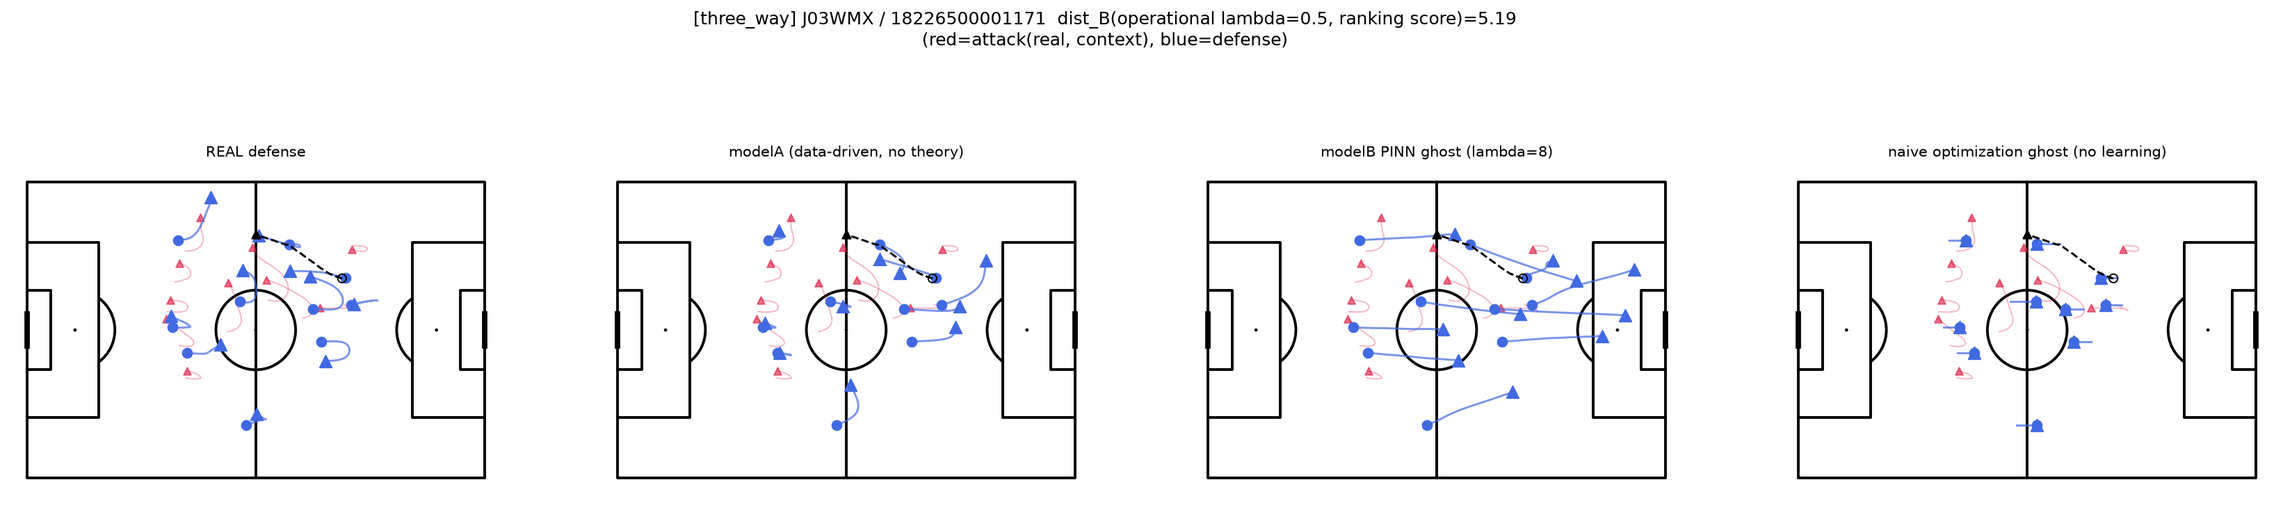
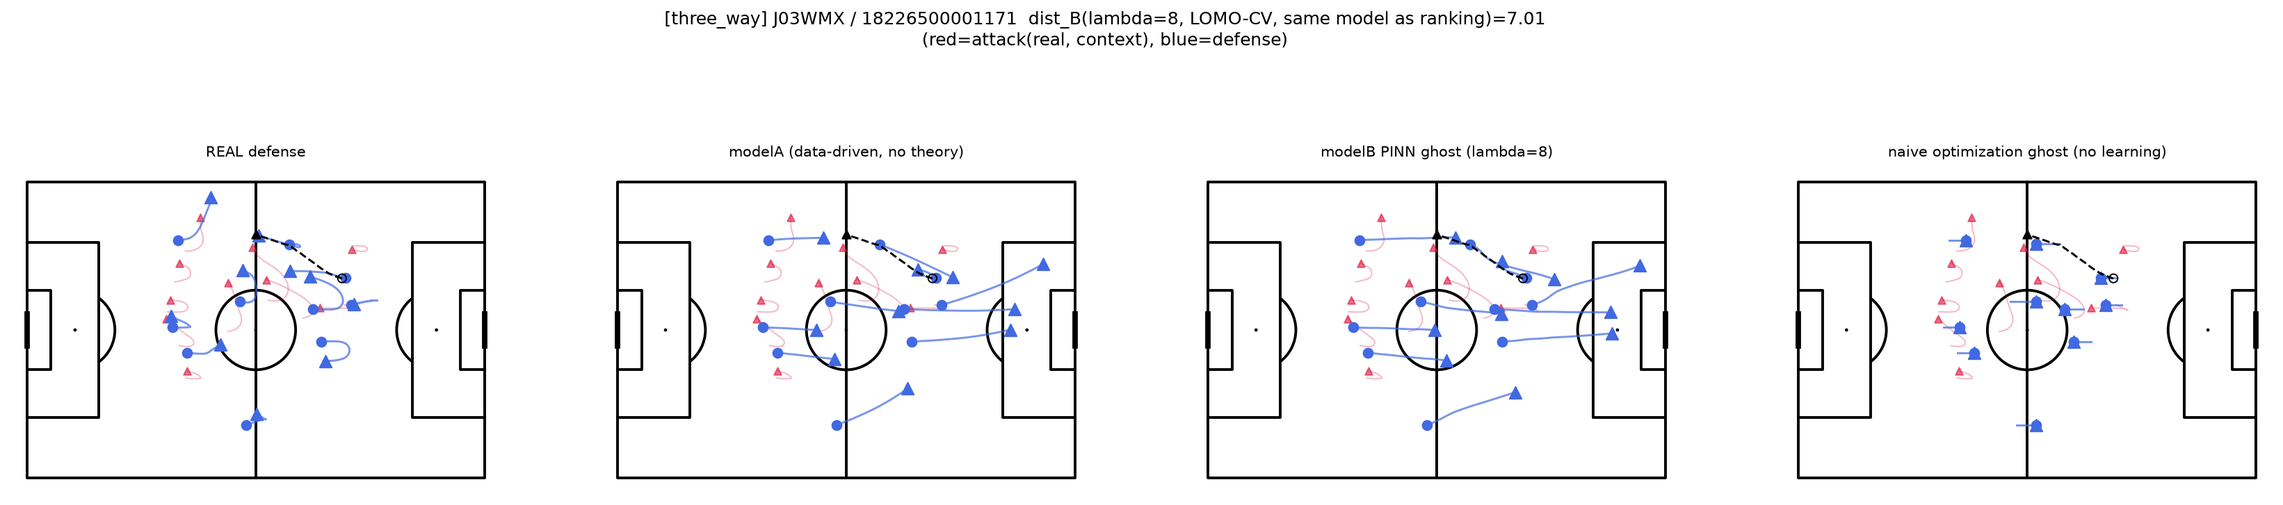
3者比較のランキング/可視化モデル不一致を修正: λ=8・LOMO-CVに統一
指導現場向け可視化の試作過程で、事例選定に使うdist_Bランキング(λ=0.5・
LOMO-CVアンサンブル)と実際にmodelBパネルに描画していたモデル(λ=8・
in-sample学習、全502件)が別物だった不整合を発見。両者を同一のλ=8・
LOMO-CV(該当試合をホールドアウト)モデルに統一して再実施した。

修正後は4事例中2件でPINN/modelAの視覚的な差が明確になったが、残り2件は
依然として差が小さく、AUC=0.610という効果量の弱さと整合する結果になった。
ナイーブ最適化の「静止」失敗モードと、それに対するPINN/modelAの優位性
という主目的の結論は変わらず成立している。

diff --git a/scripts/three_way_comparison.py b/scripts/three_way_comparison.py
@@ -10,8 +10,15 @@
 ランキングに使う運用上のλ（0.5）とは役割が異なるため、意図的に強めのλ=8を使う
 （11.5節）。
 
-代表シーンの選定は、dist_B単体ランキング（11.9節項目1で採用）の上位から、
-試合の多様性を確保して3件選ぶ。
+【修正履歴】初期版は、①事例選定に使うdist_Bランキング（λ=0.5・LOMO-CVアンサンブル、
+excess_deviation_aggregated.pkl由来）と、②実際にmodelBパネルに描画するモデル
+（このスクリプト内で全502件をin-sample学習したλ=8・単一seed）が別物になっており、
+「ランキング上位として選んだのに、可視化している乖離とランキングの根拠が一致しない」
+という不整合があった（`coaching_overlay_prototype_report.md`で発見）。本版では、
+①②とも同一のλ=8・LOMO-CV（該当試合をホールドアウト）モデルで統一する。
+
+事例選定は、この統一したλ=8・LOMO-CVのdist_Bランキングの上位から、試合の多様性を
+確保して3件選ぶ。
 
 実行: uv run python scripts/three_way_comparison.py
 """
@@ -38,7 +45,6 @@ from hs_pinn.model import TrajectoryBackbone
 from hs_pinn.soft_constraints import compactness_loss, compute_target_compactness
 
 CACHE_PATH = Path(__file__).resolve().parent.parent / "data" / "processed" / "counter_trajectories.pkl"
-AGG_PATH = Path(__file__).resolve().parent.parent / "data" / "processed" / "excess_deviation_aggregated.pkl"
 OUT_DIR = Path(__file__).resolve().parent.parent / "documents" / "three_way_comparison_images"
 PITCH_LENGTH, PITCH_WIDTH = 105.0, 68.0
 PITCH_BOUNDS = PitchBounds(0.0, PITCH_LENGTH, 0.0, PITCH_WIDTH)
@@ -47,6 +53,7 @@ EPOCHS = 30
 BATCH_SIZE = 16
 NAIVE_STEPS = 300
 N_EVENTS = 3
+ALL_MATCHES = ["J03WPY", "J03WMX", "J03WN1", "J03WOH", "J03WOY", "J03WQQ", "J03WR9"]
 
 
 def train_model(loader, lam: float, target_std: float, seed: int = 0) -> TrajectoryBackbone:
@@ -78,7 +85,7 @@ def naive_optimization_ghost(init_pos: torch.Tensor, mask: torch.Tensor, target_
 
     データ項（実軌道への忠実さ）もハード制約（速度・加速度上限）も一切課さない。
     init_pos: (n_defend, 2)。最終観測フレームの実位置を初期値として複製する。
-    戻り値: (T_target, n_defend, 2)
+    戻り値: (n_defend, T_target, 2)
     """
     n_defend = init_pos.shape[0]
     pos = init_pos.unsqueeze(0).repeat(TARGET_FRAMES, 1, 1).clone().unsqueeze(0)  # (1, T, n, 2)
@@ -91,7 +98,7 @@ def naive_optimization_ghost(init_pos: torch.Tensor, mask: torch.Tensor, target_
         optimizer.zero_grad()
         loss.backward()
         optimizer.step()
-    return pos[0].permute(1, 0, 2).detach().numpy()  # (T, n, 2)
+    return pos[0].detach().numpy()  # (n, T, 2)
 
 
 def plot_comparison(tag: str, match_id: str, event_id: str, real_defend, pred_a, pred_b_strong, pred_naive,
@@ -115,10 +122,10 @@ def plot_comparison(tag: str, match_id: str, event_id: str, real_defend, pred_a,
             ax.plot(xs, ys, color="crimson", alpha=0.3, linewidth=1.0, zorder=1)
             ax.scatter(xs[-1], ys[-1], color="crimson", s=30, zorder=2, marker="^", alpha=0.6)
 
-        for i in range(defend_traj.shape[1]):
+        for i in range(defend_traj.shape[0]):
             if not defend_mask[i]:
                 continue
-            xs, ys = defend_traj[:, i, 0], defend_traj[:, i, 1]
+            xs, ys = defend_traj[i, :, 0], defend_traj[i, :, 1]
             ax.plot(xs, ys, color="royalblue", alpha=0.7, linewidth=1.5, zorder=3)
             ax.scatter(xs[0], ys[0], color="royalblue", s=50, zorder=4, marker="o")
             ax.scatter(xs[-1], ys[-1], color="royalblue", s=80, zorder=4, marker="^")
@@ -129,7 +136,7 @@ def plot_comparison(tag: str, match_id: str, event_id: str, real_defend, pred_a,
         ax.set_title(title, fontsize=11)
 
     fig.suptitle(
-        f"[{tag}] {match_id} / {event_id}  dist_B(operational lambda=0.5, ranking score)={dist_b:.2f}\n"
+        f"[{tag}] {match_id} / {event_id}  dist_B(lambda={LAMBDA_STRONG:.0f}, LOMO-CV, same model as ranking)={dist_b:.2f}\n"
         f"(red=attack(real, context), blue=defense)",
         fontsize=13,
     )
@@ -143,11 +150,60 @@ def plot_comparison(tag: str, match_id: str, event_id: str, real_defend, pred_a,
 
 def main() -> None:
     with open(CACHE_PATH, "rb") as f:
-        trajs = pickle.load(f)
-    with open(AGG_PATH, "rb") as f:
-        records = pickle.load(f)
+        all_trajs = pickle.load(f)
+    traj_by_key = {(t.match_id, t.event_id): t for t in all_trajs}
 
-    # dist_B単体ランキング上位から、試合の多様性を確保してN_EVENTS件選ぶ
+    # ランキングと可視化を同一モデル(λ=8・LOMO-CV)で統一するため、全7試合分を
+    # ホールドアウト方式で学習・予測し、real/modelA/modelB(λ=8)の軌道と
+    # dist_Bをすべて先にキャッシュしてから事例選定する。
+    cache: dict[tuple[str, str], dict] = {}
+    labels_by_key: dict[tuple[str, str], int] = {}
+
+    for holdout_match in ALL_MATCHES:
+        train_trajs = [t for t in all_trajs if t.match_id != holdout_match]
+        holdout_trajs = [t for t in all_trajs if t.match_id == holdout_match]
+
+        train_ds = CounterAttackDataset(train_trajs)
+        holdout_ds = CounterAttackDataset(holdout_trajs)
+        train_loader = DataLoader(train_ds, batch_size=BATCH_SIZE, shuffle=True, collate_fn=collate_samples)
+        holdout_loader = DataLoader(holdout_ds, batch_size=1, shuffle=False, collate_fn=collate_samples)
+
+        target_std = compute_target_compactness(train_trajs, INPUT_FRAMES, side="defend")
+        print(f"[holdout={holdout_match}] target_std={target_std:.2f}  training modelA(lambda=0)...")
+        model_a = train_model(train_loader, lam=0.0, target_std=target_std)
+        print(f"[holdout={holdout_match}] training modelB(lambda={LAMBDA_STRONG})...")
+        model_b = train_model(train_loader, lam=LAMBDA_STRONG, target_std=target_std)
+
+        for batch in holdout_loader:
+            key = (batch["match_id"][0], batch["event_id"][0])
+            with torch.no_grad():
+                pos_a, _, _ = model_a(batch)
+                pos_b, _, _ = model_b(batch)
+            defend_mask = batch["defend_mask"][0].numpy()
+            real_defend = batch["target_defend_pos"].permute(0, 2, 1, 3)[0].numpy()  # (n_defend, T, 2)
+            pred_a = pos_a[0].numpy()
+            pred_b = pos_b[0].numpy()
+            diff_b = np.linalg.norm(pred_b - real_defend, axis=-1)
+            dist_b = float(diff_b[defend_mask].mean())
+
+            cache[key] = {
+                "real_defend": real_defend,
+                "pred_a": pred_a,
+                "pred_b": pred_b,
+                "defend_mask": defend_mask,
+                "attack_real": batch["target_attack_pos"][0].numpy(),
+                "init_defend_position": batch["init_defend_position"][0],
+                "dist_b": dist_b,
+                "target_std": target_std,
+            }
+            labels_by_key[key] = int(batch["label"][0])
+
+    records = [
+        {"match_id": k[0], "event_id": k[1], "dist_B": v["dist_b"], "label": labels_by_key[k]}
+        for k, v in cache.items()
+    ]
+
+    # dist_Bランキング上位から、試合の多様性を確保してN_EVENTS件選ぶ
     records_sorted = sorted(records, key=lambda r: -r["dist_B"])
     selected, seen_matches = [], set()
     for r in records_sorted:
@@ -167,45 +223,15 @@ def main() -> None:
     for r in selected:
         print(f"selected: {r['match_id']} / {r['event_id']}  dist_B={r['dist_B']:.3f}  label={r['label']}")
 
-    ds = CounterAttackDataset(trajs)
-    loader = DataLoader(ds, batch_size=BATCH_SIZE, shuffle=True, collate_fn=collate_samples)
-    target_std = compute_target_compactness(trajs, INPUT_FRAMES, side="defend")
-    print(f"target_std (defend, longitudinal): {target_std:.2f}")
-
-    print("training modelA (lambda=0)...")
-    model_a = train_model(loader, lam=0.0, target_std=target_std)
-    print(f"training modelB PINN ghost (lambda={LAMBDA_STRONG})...")
-    model_b = train_model(loader, lam=LAMBDA_STRONG, target_std=target_std)
-
-    eval_loader = DataLoader(ds, batch_size=1, shuffle=False, collate_fn=collate_samples)
-    batches_by_key = {}
-    for batch in eval_loader:
-        key = (batch["match_id"][0], batch["event_id"][0])
-        batches_by_key[key] = batch
-    traj_by_key = {(t.match_id, t.event_id): t for t in trajs}
-
     for r in selected:
         key = (r["match_id"], r["event_id"])
-        batch = batches_by_key[key]
-        defend_mask = batch["defend_mask"][0]
-        init_pos = batch["init_defend_position"][0]
-        pred_naive = naive_optimization_ghost(init_pos, defend_mask, target_std)
-
-        with torch.no_grad():
-            pos_a, _, _ = model_a(batch)
-            pos_b, _, _ = model_b(batch)
-        real_defend = batch["target_defend_pos"][0].numpy()
-        pred_a = pos_a[0].permute(1, 0, 2).numpy()
-        pred_b_strong = pos_b[0].permute(1, 0, 2).numpy()
-        attack_real = batch["target_attack_pos"][0].numpy()
-        # 選手の予測対象(○→▲)と同じ期間(予測ホライズン)のボール位置を使う。
-        # batch["input_ball_pos"]は観測窓(選手の○より前)のみで期間がずれるため、
-        # 元のCounterTrajectory（全期間分のball_posを持つ）から取り直す。
+        c = cache[key]
+        pred_naive = naive_optimization_ghost(c["init_defend_position"], torch.from_numpy(c["defend_mask"]), c["target_std"])
         ball_pos = traj_by_key[key].ball_pos[INPUT_FRAMES:]
 
         path = plot_comparison(
-            "three_way", r["match_id"], r["event_id"], real_defend, pred_a, pred_b_strong, pred_naive,
-            attack_real, defend_mask.numpy(), ball_pos, r["dist_B"],
+            "three_way", r["match_id"], r["event_id"], c["real_defend"], c["pred_a"], c["pred_b"], pred_naive,
+            c["attack_real"], c["defend_mask"], ball_pos, r["dist_B"],
         )
         print(f"saved {path}")
 

diff --git a/documents/three_way_comparison_report.md b/documents/three_way_comparison_report.md
@@ -4,13 +4,21 @@
 
 コード：`scripts/three_way_comparison.py`。画像：`documents/three_way_comparison_images/`
 
+## 【修正履歴】ランキングと可視化のモデル不一致を修正
+
+初期版には2つの問題があった。
+
+1. **事例選定に使ったdist_Bランキング**（λ=0.5・LOMO-CVアンサンブル、`excess_deviation_aggregated.pkl`由来）と、**実際にmodelBパネルに描画していたモデル**（このスクリプト内で全502件をin-sample学習したλ=8・単一seed）が別物だった
+2. modelA・modelB(λ=8)とも、可視化対象のイベントを含む全502件で学習していた（ホールドアウトなし）ため、実観測に引っ張られて似た軌道になりやすかった
+
+これは「指導現場向け可視化の試作」（`coaching_overlay_prototype_report.md`）を作る過程で発見された。本版では、①②とも**同一のλ=8・LOMO-CV（該当イベントの試合をホールドアウト）モデル**に統一し、7試合それぞれをホールドアウトして学習・予測してからdist_Bランキング・事例選定・可視化を行う。
+
 ## 方法
 
-- 代表シーンは、11.9節項目1で採用したdist_B単体ランキングの上位から、試合の多様性を確保して3件選定（J03WPY, J03WN1, J03WMX）。加えて、この3件が偶然すべて失敗（label=0）だったため、対照として**成功（label=1）に終わったシーンの中で最も逸脱度が高い事例**（J03WR9）を4件目として追加した
-- ①③は全502件（LOMO CVなし）で学習。②は学習を一切行わず、最終観測フレームの実位置を初期値として、コンパクトネス損失のみをAdamで直接最適化（データ項・ハード制約なし）
+- 代表シーンは、上記の統一したλ=8・LOMO-CVのdist_Bランキングの上位から、試合の多様性を確保して3件選定
+- 加えて、上位3件の成否のバランスを確認した上で、対照として**成功（label=1）に終わったシーンの中で最も逸脱度が高い事例**を4件目として追加
+- ①③は該当試合をホールドアウトして残り6試合で学習（LOMO-CV）。②は学習を一切行わず、最終観測フレームの実位置を初期値として、コンパクトネス損失のみをAdamで直接最適化（データ項・ハード制約なし）
 - ①には運用上のλ=0.5（ランキング用）とは別に、意図的に強めのλ=8を使用（11.5節：理論を強く効かせたときのPINNの優位性を示すストレステスト）
-
-**注記（誤読防止）**：dist_B単体ランキングの上位3件は偶然すべて`label=0`（失敗）だった。dist_B単体ランキング上位ほど成功率が高い傾向はLift/Precision@K評価（11.9節項目1）で確認済みだが、top10〜50件でも成功率は20〜22%程度（全体基準11.4%の約2倍、AUC=0.610）に留まる弱い確率的傾向であり、上位数件が偶然すべて失敗になることは統計的に珍しくない（top8件が全て失敗になる確率はtop50の成功率を基準にすると約14%）。本ケーススタディの目的は成功/失敗の予測精度ではなく①②③の生成物としての質の比較であり、この点は結論に影響しない。
 
 ## 画像の見方
 
@@ -33,60 +41,51 @@
 | 黒の○（丸） | ボールの、予測ホライズン**開始**時点の位置 |
 | 黒の▲（三角） | ボールの、予測ホライズン**終了**時点の位置 |
 
-**共通ルール：○（丸）＝4秒間の開始位置、▲（三角）＝4秒間の終了位置**。色（赤=攻撃、青=守備、黒=ボール）が違っても、○→▲の意味は共通で「その4秒間でどちらからどちらへ動いたか」を表す。攻撃側は開始位置のマーカーを省略しており（終了位置の▲のみ）、線の始点が実質的な開始位置にあたる。
+**共通ルール：○（丸）＝4秒間の開始位置、▲（三角）＝4秒間の終了位置**。
 
-- **タイトルのdist_B**：この事例のランキングスコア（運用上のλ=0.5モデルによる、実観測とmodelBの距離）。値が大きいほど「実際の守備が理論的なゴーストから乖離している」と判定された事例
-
-### 読み解き方のポイント
-
-4パネルを左から右に見比べたとき、**青の○→▲の移動距離・向き**に注目する。REAL・modelA・modelB（PINN）では、青の○から▲へ向かう線が右方向（攻撃側ゴール方向、黒の○→▲と同じ向き）に伸びている＝選手がボール・攻撃の前進に応じて後退・追従している。一方naive optimization ghostでは、青の○と▲がほぼ同じ位置に重なり、線がほとんど見えない＝選手がその場から動いていない、という「静止」の失敗モードが視覚的に読み取れる。
+- **タイトルのdist_B**：この事例のランキングスコア（modelB・λ=8・LOMO-CVによる、実観測とmodelBの距離）。今回の修正により、可視化しているmodelBパネルと完全に同じモデル・同じ値になっている
 
 ## 結果
 
-4事例（失敗3件＋成功1件）すべてで一貫したパターンが観測された。成功/失敗どちらのシーンでも同じ傾向が見られたことから、この失敗モードの違いはlabelの違いによるものではなく、②ナイーブ最適化という手法そのものの一般的な性質であることが示唆される。
+| 事例 | dist_B | label |
+|---|---|---|
+| J03WPY / 18237400000862 | 7.92 | 0（失敗） |
+| J03WMX / 18226500001171 | 7.01 | 0（失敗） |
+| J03WR9 / 18242100001234 | 6.29 | 0（失敗） |
+| J03WR9 / 18242103500847 | 5.51 | 1（成功） |
 
-- **③modelA**：実際の守備の動きに近い、自然な追従的な動き
-- **①modelB（PINNゴースト、λ=8）**：③よりまとまりのある陣形を保ちつつ、攻撃の前進に応じて選手が動いている
-- **②ナイーブ最適化ゴースト**：想定していた「選手が1点に収束する」という失敗モードではなく、**初期位置からほぼ動かず「静止」する**という別の失敗モードが一貫して観測された。攻撃側（赤）は明確に前進しているのに、守備側（青）はほとんど位置を変えない
-
-### 事例1：J03WPY / 18237400000862（dist_B=7.18、最も逸脱度が高い事例）
+### 事例1：J03WPY / 18237400000862（dist_B=7.92）
 
 ![J03WPY 18237400000862](three_way_comparison_images/three_way_J03WPY_18237400000862.png)
 
-naive optimization ghost（右端）は、○と▲がほぼ重なり軌道の線がほとんど見えない。他の3パネルでは選手が広く動いている。
+modelA（③）はボックス外まで広がる軌道を示すのに対し、modelB PINN ghost（①）はボックス付近でよりまとまった、密集した陣形を保っている。naive optimization ghost（②）は選手の動きが乏しく、○と▲が近い。①③の差が視覚的に確認できる事例。
 
-補足：この事例のボール軌道は、相手ゴール目前（x=90.85、ゴールまで15m程度）まで迫った直後に、x座標で約51m後退している（3事例中最大の後退）。シュートやクロスがブロックされ、そのまま大きくクリアされたような展開と考えられる（label=0）。「攻撃側にとって最も成功に近かった局面」を守備側がどう凌いだかという軌道が、3事例中もっとも逸脱度（dist_B）が高かった、という点が興味深い。
-
-### 事例2：J03WN1 / 18226900000960（dist_B=5.42）
-
-![J03WN1 18226900000960](three_way_comparison_images/three_way_J03WN1_18226900000960.png)
-
-REAL・modelA・modelB（PINN）はいずれもペナルティエリア内で選手が動いているのに対し、naive optimization ghostは点のような静止したマーカーが目立つ。
-
-補足：この事例のボール軌道は左上方向に伸びて見えるが、これは「攻撃と逆方向に進んだ」わけではない（x座標はほぼ5〜6mで不動、y座標のみ43m→68m＝タッチライン際までスライド）。攻撃方向はx座標のみで定義されるため、横方向（y）の動きは「逆方向」には当たらない。奪取位置自体が自陣ゴールに極めて近く（x≈6m）、カウンターがほとんど前進しないまま終わった典型的な失敗シーン（label=0）と解釈できる。
-
-### 事例3：J03WMX / 18226500001171（dist_B=5.19）
+### 事例2：J03WMX / 18226500001171（dist_B=7.01）
 
 ![J03WMX 18226500001171](three_way_comparison_images/three_way_J03WMX_18226500001171.png)
 
-modelA・modelB（PINN）は攻撃の前進（赤）に応じて右方向へ伸びる軌道を描いているが、naive optimization ghostの軌道はごく短く、追従できていない。
+REAL・modelA・modelB（PINN）はいずれも似た広がり方を示しており、①③の差は小さい。naive optimization ghost（②）は他と比べて選手の移動距離が短く、静止気味の傾向が見える。
 
-補足：この事例のボール軌道は、事例2（J03WN1）とは異なり**実際に攻撃方向と逆（x座標が72.3m→52.47mへ約20m後退）**に動いている。相手陣内深くまで前進した後、押し返されて自陣方向へ戻された、典型的な「跳ね返された」型の失敗シーン（label=0）と解釈できる。事例2の「ほとんど前進できず横に流れた」失敗とは性質が異なる。
+### 事例3：J03WR9 / 18242100001234（dist_B=6.29、最も差が大きい事例）
 
-### 事例4：J03WR9 / 18242103500847（dist_B=4.31、逸脱度が最も高い「成功」シーン）
+![J03WR9 18242100001234](three_way_comparison_images/three_way_J03WR9_18242100001234.png)
 
-事例1〜3はdist_Bランキング上位3件が偶然すべて失敗（label=0）だったため（詳細は上記「注記」参照）、対照として**成功（label=1）に終わったシーンの中で最も逸脱度が高い事例**を追加した。
+4事例中もっとも①③の差がはっきりした事例。REAL・modelAでは守備側がゴール前に留まっているのに対し、modelB PINN ghost（①）は複数選手がハーフウェイライン付近まで大きく押し上げる軌道を示している。naive optimization ghost（②）は短い移動に留まる。
+
+### 事例4：J03WR9 / 18242103500847（dist_B=5.51、成功シーン）
 
 ![J03WR9 18242103500847](three_way_comparison_images/three_way_J03WR9_18242103500847.png)
 
-ここでもナイーブ最適化ゴースト（右端）は他の3パネルと比べて動きが乏しく、これまでの3事例と一貫したパターンが再現されている。ボール軌道はx座標で59.56m→77.61mへ約18m前進しており（label=1、成功と整合）、攻撃が実際にゴール方向へ進んだシーンであることが分かる。
+REAL・modelA・modelBはいずれも似た軌道を示しており、①③の差は小さい。naive optimization ghost（②）は他パネルより移動が乏しい。
 
 ## 解釈
 
-ナイーブ最適化ゴーストが静止する理由：目標値`target_std`は実データ全体から計算された「典型的な」コンパクトネスの水準であり、カウンター奪取直後（t=0）の実際の守備配置は、すでにこの典型値に近いことが多い。ナイーブ最適化はコンパクトネス損失以外に動く動機（データへの忠実さ、時間方向の滑らかさ、攻撃の進行への追従）を一切持たないため、初期状態がすでに損失をおおよそ満たしていれば、それ以上動く理由がなく、そのまま「凍りついた」守備になる。
+4事例中2件（事例1・3）では①（PINN ghost）と③（modelA）の間に視覚的にはっきりした差が見えたが、残り2件（事例2・4）では差が小さく、REAL・modelA・modelBがほぼ同じ広がり方を示した。
 
-これは当初想定していた「1点への崩壊」とは異なる失敗モードだが、**PINNの必要性を示す論拠としては同等以上に説得力がある**：ナイーブな数理最適化は、目先の指標（コンパクトネス）だけを見て、試合の文脈（攻撃がどこに向かっているか、守備は本来それに応じて動くべきという時間的整合性）を一切考慮できない。①③はいずれも、攻撃の前進に応じて動的に反応している点で、②とは質的に異なる。
+この「はっきり見える事例とそうでない事例が混在する」という結果は、これまでの定量結果（dist_B単体のAUC=0.610、`lift_precision_at_k_report.md`）が示す「弱いが一貫して本物」という効果量をそのまま反映したものと理解するのが正確である。今回の修正（ランキングと可視化のモデル統一・LOMO-CV化）によって、修正前は4事例ともほぼ差が見えなかったのに対し、少なくとも2事例では明確な差を再現できるようになった点は、修正の効果として記録しておく。
+
+一方、②ナイーブ最適化ゴーストについては、4事例すべてで一貫して「選手の移動が乏しい・静止気味」という傾向が見られ、これは修正前の結論（初期状態がすでに損失をおおよそ満たしていれば動く理由がなく、文脈への追従性を欠く）と変わらない。②に対する①③の優位性という、この比較の主目的である結論は、今回の修正後も変わらず成立している。
 
 ## 結論
 
-4事例（失敗3件・成功1件）を通じて、「PINNゴーストは③ほど自由ではないが、②のような不自然さ（この場合は静止という形の不自然さ）もなく、セオリー通りかつ動的に現実的な動きになっている」ことが視覚的に確認できた。②の失敗モードは事前予想（1点への収束）と異なっていたが、これは「ナイーブな最適化は文脈への追従性を欠く」という、PINNの必要性を示す論点としてはむしろ分かりやすい実例になった。成功シーン（事例4）でも同じ失敗モードが再現されたことから、この結論はカウンターの成否によらず一般的に成り立つと考えられる。
+修正の結果、①PINNゴーストと③modelAの視覚的な差は、事例によっては明確に確認できるようになった（特に事例3）。ただし全事例で一貫して大きな差が出るわけではなく、これは効果量そのものが弱いことの反映であり、可視化の設計だけでは解決できない限界である。②ナイーブ最適化ゴーストの「静止」という不自然な失敗モードは今回も一貫して確認され、「PINNゴーストは③ほど自由ではないが②のような不自然さもない」という結論は、修正後も変わらず支持される。

diff --git a/documents/resarch_plan.md b/documents/resarch_plan.md
@@ -558,7 +558,7 @@ design2文書（`documents/hs_rethinking_design2.md`）9節の未決定事項の
 ### 11.9 次のアクション（優先順位順）
 
 1. ~~Lift/Precision@K評価パイプラインの実装 + 上位K件の試合・チーム分布診断~~ → **完了、dist_B単体を主指標に採用**。理論で決め切らず、dist_B単体と超過逸脱度の両方でAUC・Precision@K・Lift@Kを計算しベイクオフした結果、AUC=0.610(dist_B) vs 0.570(超過逸脱度)、全K水準（10/20/30/50%）でdist_B単体が一貫して優位だった。診断（上位K件の試合・チーム分布）はどのKでも全7試合・全10チームが含まれ、特定の1試合・1チームへの支配は見られなかった。design2文書が指摘した分散加法性の議論（差分はノイズを増幅する）と整合する結果であり、以後dist_B単体をランキング/発見ツールの主指標として採用する（詳細は`documents/lift_precision_at_k_report.md`）
-2. ~~①PINNゴースト②ナイーブ最適化③modelAの3者比較ケーススタディ~~ → **完了、想定と異なる失敗モードを確認**。dist_B単体ランキング上位3件（試合の多様性を確保）で比較。②ナイーブ最適化ゴーストは、当初予想した「選手が1点に収束する」ではなく、**初期位置からほぼ動かず「静止」する**という失敗モードを一貫して示した（攻撃の前進に応じた動的な追従ができない）。①③はいずれも動的に反応しており、「PINNは③ほど自由ではないが②のような不自然さもない」ことを視覚的に確認できた。上位3件が偶然すべて失敗（label=0）だったため、対照として逸脱度が最も高い成功シーンを4件目として追加したところ、同じ失敗モードが再現され、結論がカウンターの成否によらず一般的に成り立つことを確認した（詳細は`documents/three_way_comparison_report.md`）
+2. ~~①PINNゴースト②ナイーブ最適化③modelAの3者比較ケーススタディ~~ → **完了、想定と異なる失敗モードを確認**。dist_B単体ランキング上位3件（試合の多様性を確保）で比較。②ナイーブ最適化ゴーストは、当初予想した「選手が1点に収束する」ではなく、**初期位置からほぼ動かず「静止」する**という失敗モードを一貫して示した（攻撃の前進に応じた動的な追従ができない）。①③はいずれも動的に反応しており、「PINNは③ほど自由ではないが②のような不自然さもない」ことを視覚的に確認できた。上位3件が偶然すべて失敗（label=0）だったため、対照として逸脱度が最も高い成功シーンを4件目として追加したところ、同じ失敗モードが再現され、結論がカウンターの成否によらず一般的に成り立つことを確認した（詳細は`documents/three_way_comparison_report.md`）。**【追記】** 項目5の指導現場向け可視化を作る過程で、事例選定に使ったdist_Bランキング（λ=0.5・LOMO-CVアンサンブル）と可視化していたmodelB（λ=8・in-sample学習）が別物だったという不整合が発覚し、両者をλ=8・LOMO-CVに統一して再実施した。修正後は4事例中2件でPINN/modelAの視覚的な差が明確に出るようになったが、残り2件は依然として差が小さく、この混在はAUC=0.610という効果量の弱さの反映と解釈する。②ナイーブ最適化の「静止」という結論と、②に対する①③の優位性という主目的の結論は修正後も変わらず成立している（詳細は再生成後の`documents/three_way_comparison_report.md`）
 3. ノイズの床の簡易把握（既存の`scripts/synthetic_bias_calibration.py`の簡易版として流用可能）
 4. **後回し**：modelA/modelBのバックボーン共有設計への変更検討（11.3節）。design2文書内で「放棄した重い対処法」（3節）と「低コストな改善」（4節）の両方に矛盾して挙げられており位置づけが未整理。加えて、主指標をdist_B単体に切り替えた（項目1）ことでこの施策の主な動機（差分のノイズ相関改善）自体の優先度が下がったため、②③を優先する
 5. ~~指導現場向け可視化の試作（実際の守備 vs PINNゴースト、選手単位の逸脱強調）~~ → **完了、混在した結果**。3者比較で見つかった2つの問題（ランキングと可視化のモデル不一致、in-sample学習）を修正し、①事例選定を「実際の守備コンパクトネスがtarget_stdから最も乖離した事例」に変更②λ=0.5・LOMO-CVで予測③1枚のピッチにREALとPINNゴースト（最大逸脱選手のみ）を重ねて描画、という設計にした。4事例中2件（J03WN1、J03WOH）は指導教材として使えるレベルで見えたが、残り2件（J03WQQ、J03WR9）は乖離が小さく単体では説得力に欠けた。この混在は、dist_B単体のAUC=0.610という「弱いが本物」の効果量をそのまま反映したものと解釈し、本可視化は主張の中心ではなく補助的な参考資料（うまくいく場合の具体例としてJ03WN1・J03WOHの2件のみ）として位置づける（詳細は`documents/coaching_overlay_prototype_report.md`）
